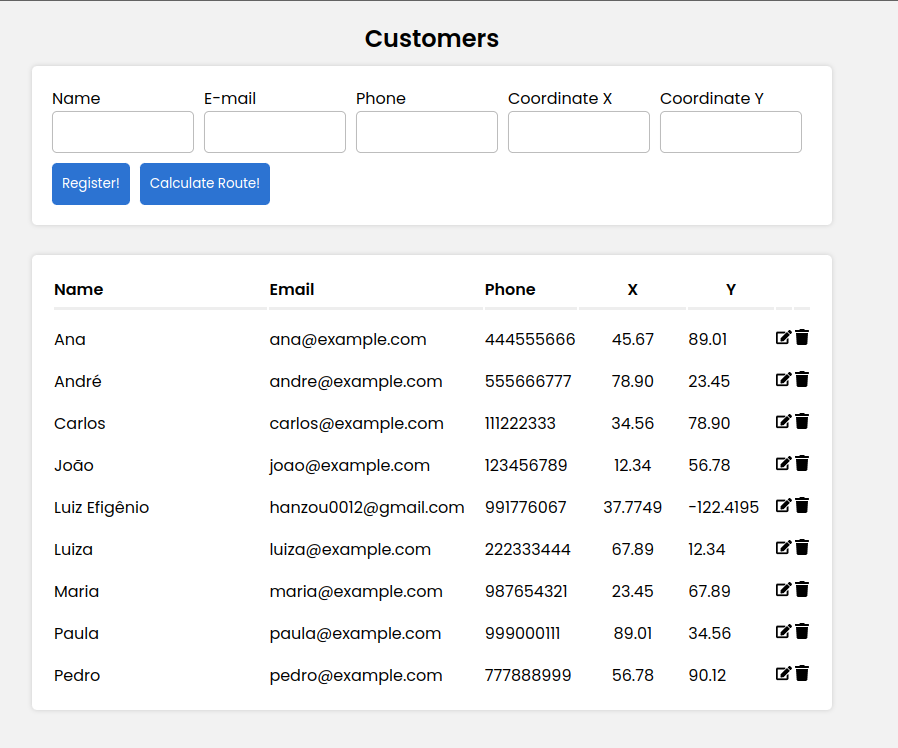
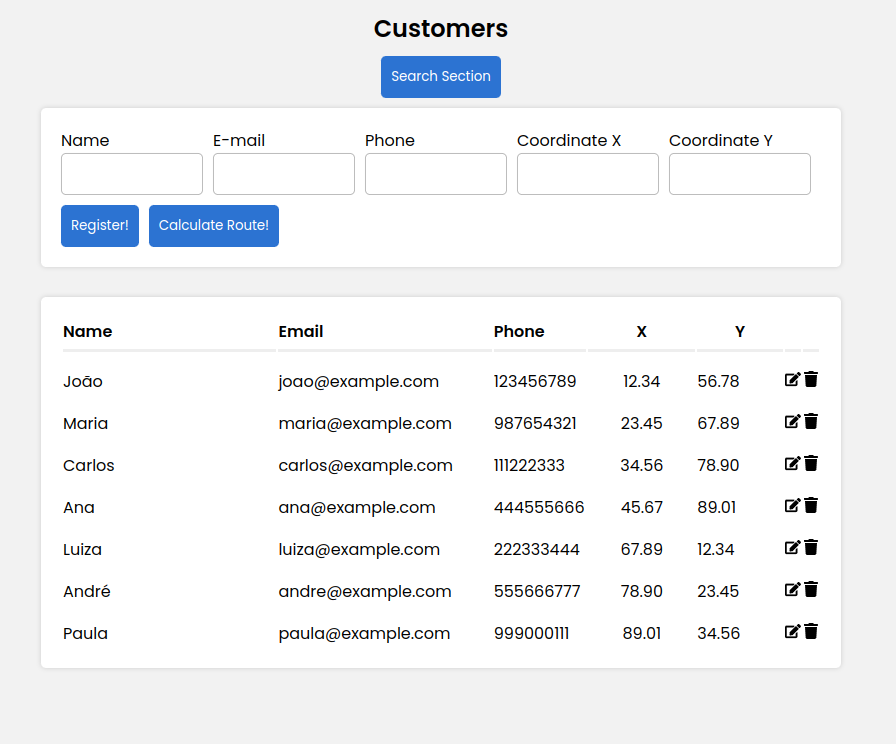
feat: add new images

diff --git a/README.md b/README.md
@@ -80,13 +80,21 @@ Está documentação disponibiliza detalhes sobre Facilita Challenge API
 - **Method:** GET
 - **URL:** `http://localhost:5000/api/routes/calculate}`
 
+### Search by Info Customer
+
+- **Method:** GET
+- **URL:** `http://localhost:5000/api/customer/search?searchTerm=pedro`
+
 ## ☕ Usando Facilita Challenge
 
 Basicamente é um CRUD de clientes, mas o grande foco dessa aplicação é resolver esse desafio proposto pela a Facilita
 
 > O objetivo é calcular a rota partindo da empresa (0,0) e que passe pela localização de todos os clientes cadastrados no banco de dados e retorne à empresa no final. A rota deve ser calculada para ter a menor distância possível.
 
+> OBS: não podia usar ORM então utilizei o pattern Repository
+
 Eu usei a técnica de brute force para percorrer todas as rotas e ir ordenando pela order de mais perto (0,0)
 
 ![Demonstração](./images/modal-exemple.png)
 ![Frontend](./images/frontend.png)
+![Search](./images/search.png)
